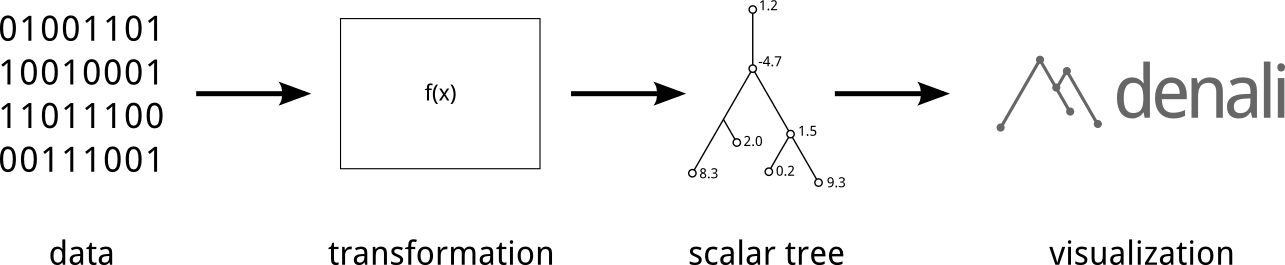
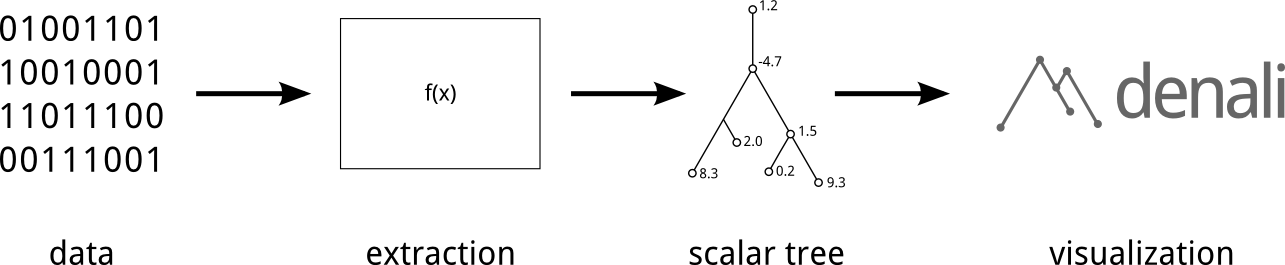
Revised features.

Changed region(s): [[0.249, 0.9057, 0.4358, 1.0]]

diff --git a/index.html b/index.html
@@ -60,12 +60,12 @@ trends in complex and high dimensional data.
 </div>
 
 <p>Many sources of data &mdash; from complex networks to probability
-distributions &mdash; can be represented by tree-like structures. These trees,
-however, are often complicated and difficult to visualize. Moreover, it is
-often the case that one not only wants to visualize the tree-like structure of
-his or her data, but also a scalar attribute on top of it. Traditional methods,
-such as simply plotting the tree as a graph in the plane, offer limited
-opportunities to do so.
+distributions &mdash; can be represented or summarized by tree-like structures.
+These trees, however, are often complicated and difficult to visualize.
+Moreover, it is often the case that one not only wants to visualize the
+tree-like structure of his or her data, but also a scalar attribute on top of
+it. Traditional methods, such as simply plotting the tree as a graph in the
+plane, offer limited opportunities to do so.
 
 <p>Denali is a tool for visualizing trees as <i>landscape metaphors</i> &mdash;
 mountain-like surfaces which intuitively represent both the structure of
@@ -73,15 +73,56 @@ complicated trees and scalar attributes defined on their nodes. To learn more ab
 landscape metaphors, see the
 <a href="./doc/pages/tutorial.html#introduction-to-landscape-metaphors">tutorial</a>.</p>
 
-<i>Can denali be used for your application?</i> Denali requires its input to be in the form
-of a scalar tree &mdash; a tree whose nodes are associated with scalar values. Included
-with denali are tools to extract scalar tree structure from graphs and point clouds, 
-allowing denali to be used to visualize many different sources of data. 
+<p><i>Can denali be used for your application?</i> Denali requires its input to
+be in the form of a scalar tree &mdash; a tree whose nodes are associated with
+scalar values. Included with denali are tools to help you extract such scalar
+trees from common sources of data, such as scalar functions defined on point
+clouds. You can also extract tree-like structure using a method you provide,
+and use denali to visualize the result.</p>
+
+<p>The figure below shows the conceptual "pipeline" you'll follow when using denali:</p>
 
 <div style="text-align: center; margin: 2em 0em">
 <img width="600px" src="./resources/pipeline.png">
 </div>
 
+<p>The <i>extraction</i> step is crucial: it is where the input data is transformed
+into something that can be visualized with denali. Included alongside denali is
+<i>ctree</i>, a tool for extracting contour trees from functions defined on
+graphs and point clouds. With it, you can visualize data from many different
+sources. Several important applications are shown in the table below:</p>
+
+<div style="text-align: center">
+<center>
+<table id="domains" style="margin: 20px 0px">
+
+    <tr id="domains-header-row">
+    <td style="width:200px"><b>Data</b></td><td><b>Extraction</b></td><td><b>Examples</b></td>
+    </tr>
+
+    <tr>
+    <td>Scalar tree</td>
+    <td>None</td>
+    <td>Hierarchical clusterings of point clouds, internet comment threads</td>
+    </tr>
+
+    <tr>
+    <td>Scalar function on a graph or point cloud</td>
+    <td>Contour tree</td>
+    <td>Probability densities, cost functions, parameter spaces</td>
+    </tr>
+
+    <tr>
+    <td>Data on a tree-like manifold</td>
+    <td>Contour tree with geodesic distance</td>
+    <td>Mouse cytometry data</td>
+    </tr>
+
+</table>
+</center>
+</div>
+
+<p>For more concrete examples of using denali, see the <a href="#gallery">gallery</a>.</p>
 
 <div class="section-head">
   <span class="section-head">
@@ -89,16 +130,22 @@ allowing denali to be used to visualize many different sources of data.
   </span>
 </div>
 
-<div>
-<ul>
-<li>Explore your data by using the mouse to fly through an interactive 3d landscape.</li>
-<li>Selectively simplify regions of the visualization to discover important trends.</li>
-<li>Interactively choose parts of the data to run domain-specific analyses on.</li> 
-<li>Specify a custom method of coloring the visualization, useful for comparing two scalar functions.</li>
-<li>Re-weight points in the input data to alter their influence on the visualization.</li>
-<li>The suite of included tools and utilities allows you to prepare your data for visualization.</li>
-</ul>
-</div>
+<div><ul id="features-list">
+    <li><b>Fully interactive</b>: Explore your data using the mouse to fly through an interactive, 3-d landscape.</li>
+    <li><b>Selective simplification</b>: Visualizing a noisy data set? Simplify specific regions of the 
+        visualization using the interactive simplification tool, allowing important trends to be more clearly visible.</li>
+    <li><b>Powerful callback system</b>: Integrate denali into your workflow. Run your own code &mdash; written in whatever
+        language you'd like &mdash; whenever you make a selection in the landscape.
+    <li><b>Custom coloring</b>: Color the landscape according to your needs. Compare two scalar functions by using the height
+        to represent one, and the color to represent the other.</li>
+    <li><b>Re-weight your data</b>: Specify a custom weight map to emphasize parts of the landscape. Quickly clear or
+        swap this map for another to make fast comparisons.</li>
+    <li><b>Included utilities</b>: The included utilities make it easy to transform your data into a visualization. Streamline
+        the creation of your callback code by using the included Python package.</li>
+    <li><b>Thorough documentation and demos</b>: An extensive <a href="./docs/pages/tutorial.html">tutorial</a> is included,
+        introducing you to denali, landscape metaphors, and the included tools. Numerous demos, complete with code, are
+        provided to help you apply denali to your specific application.
+</div></ul>
 
 <div class="section-head">
   <span class="section-head">

diff --git a/resources/main.css b/resources/main.css
@@ -29,7 +29,7 @@ div#navlist {
 div#navlist ul {
     background-color: #f0f0f0;
     border-radius: 10px;
-    border-bottom: 1px #e0e0e0 solid;
+    border-bottom: 1px #d0d0d0 solid;
     padding-top: .5em;
     padding-bottom: .5em;
     text-align: center;
@@ -56,4 +56,22 @@ span.section-head {
     top: -0.7em;
     padding: 0em 1em;
     font-size: 20pt;
+}
+
+table#domains {
+    width: 600px;
+    font-size: 10pt;
+}
+
+table#domains td {
+    padding: 10px 10px;
+    border-bottom: 1px solid #ccc;
+}
+
+tr#domains-header-row {
+    font-size: 11pt;
+}
+
+ul#features-list li {
+    padding: .5em 0em;
 }
